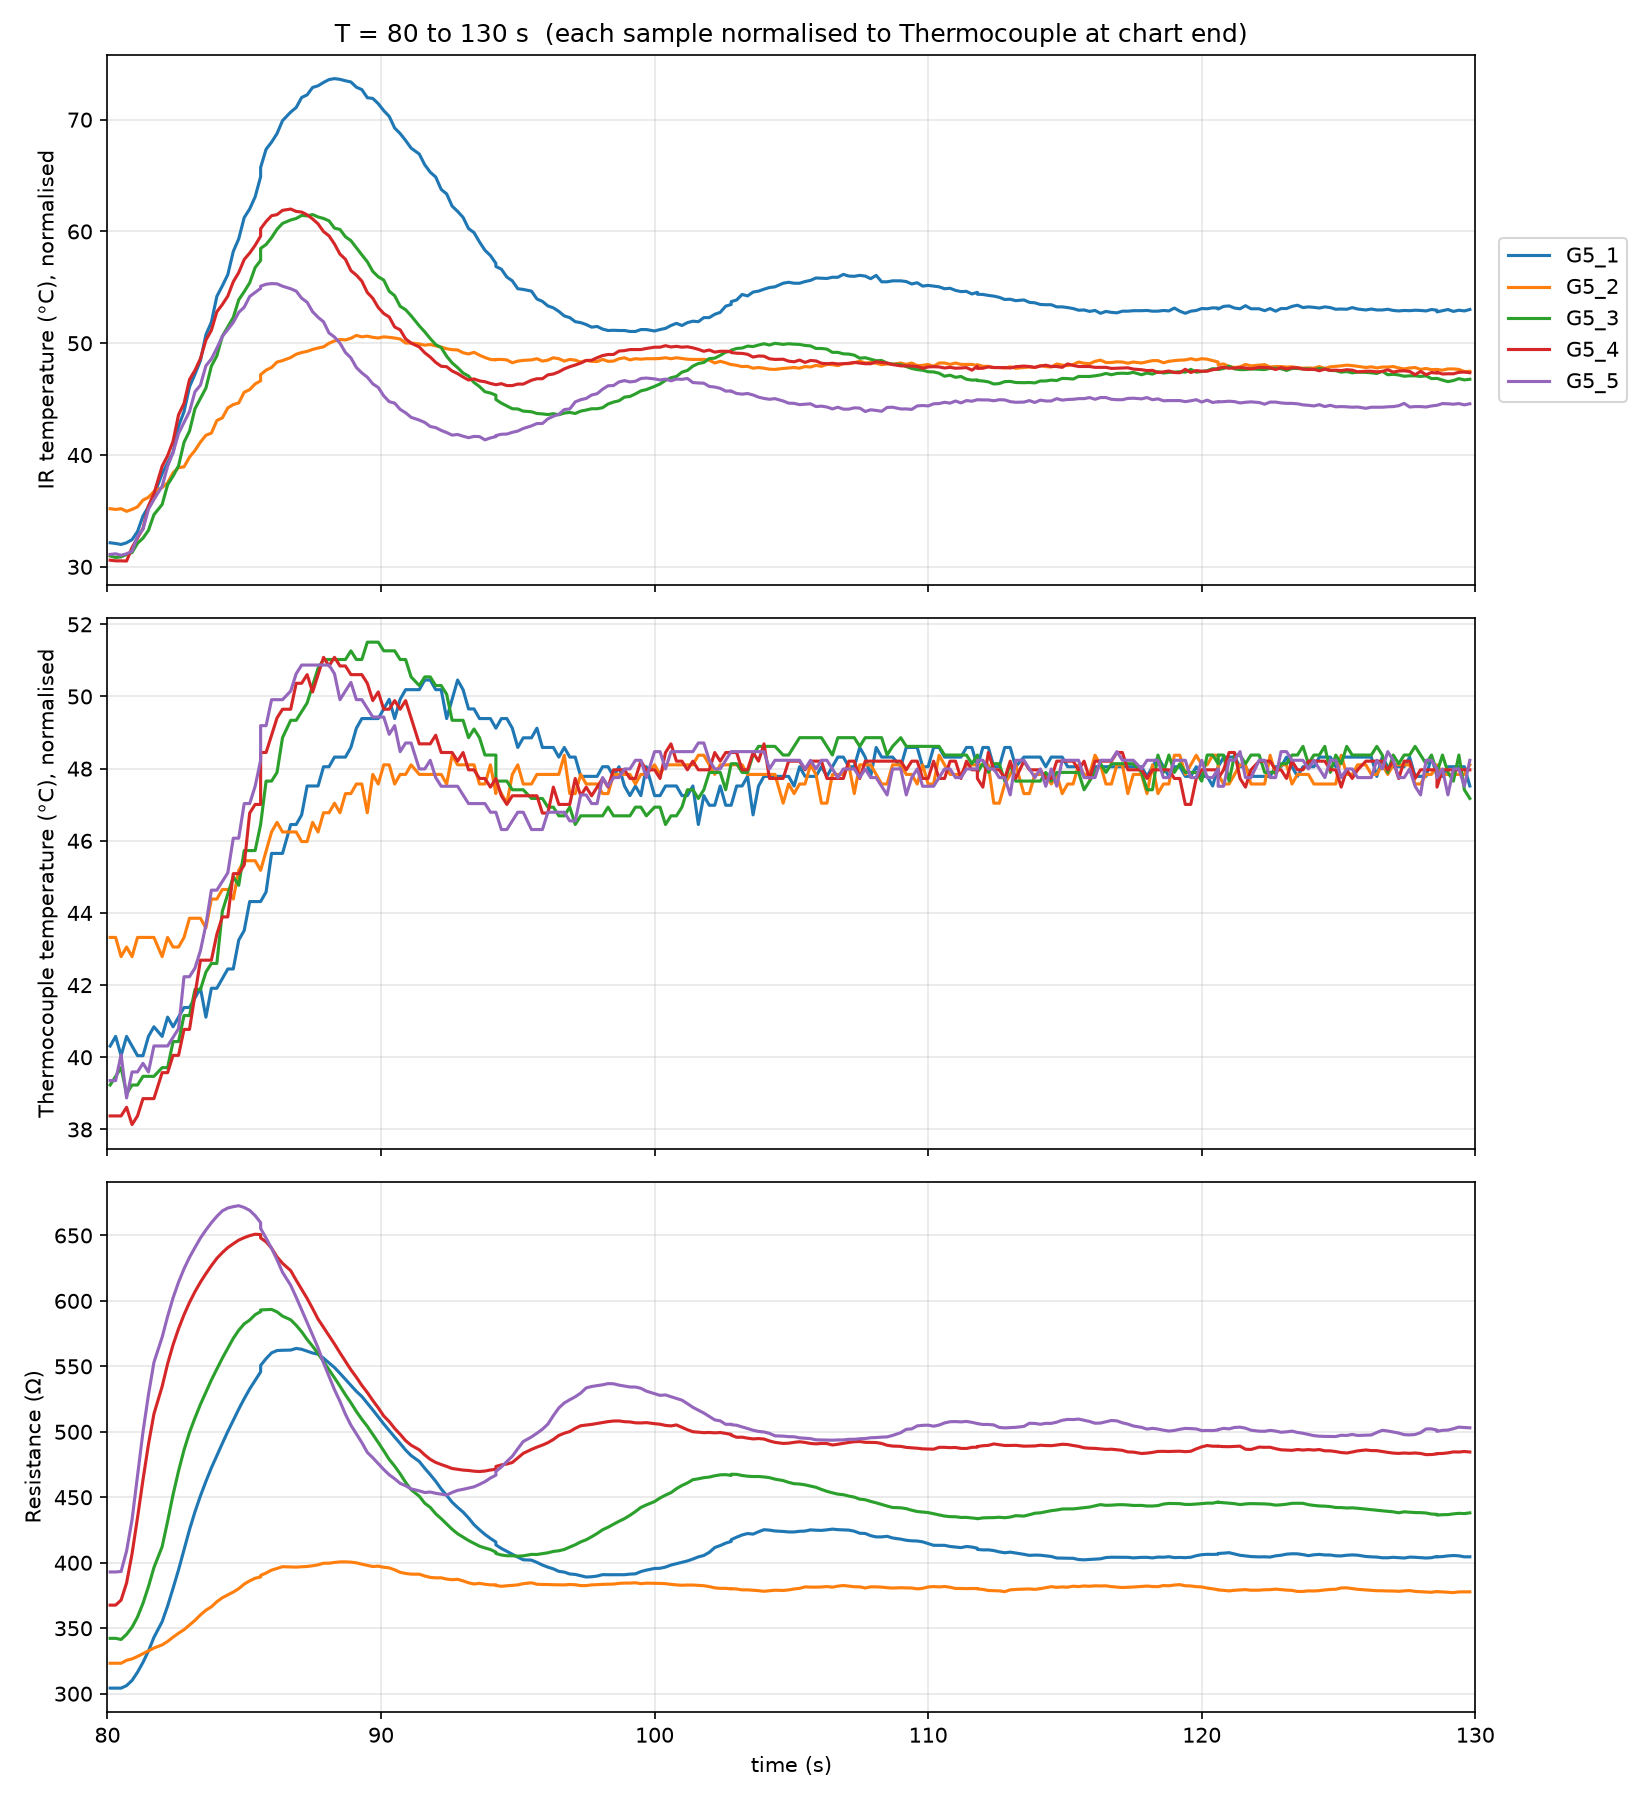
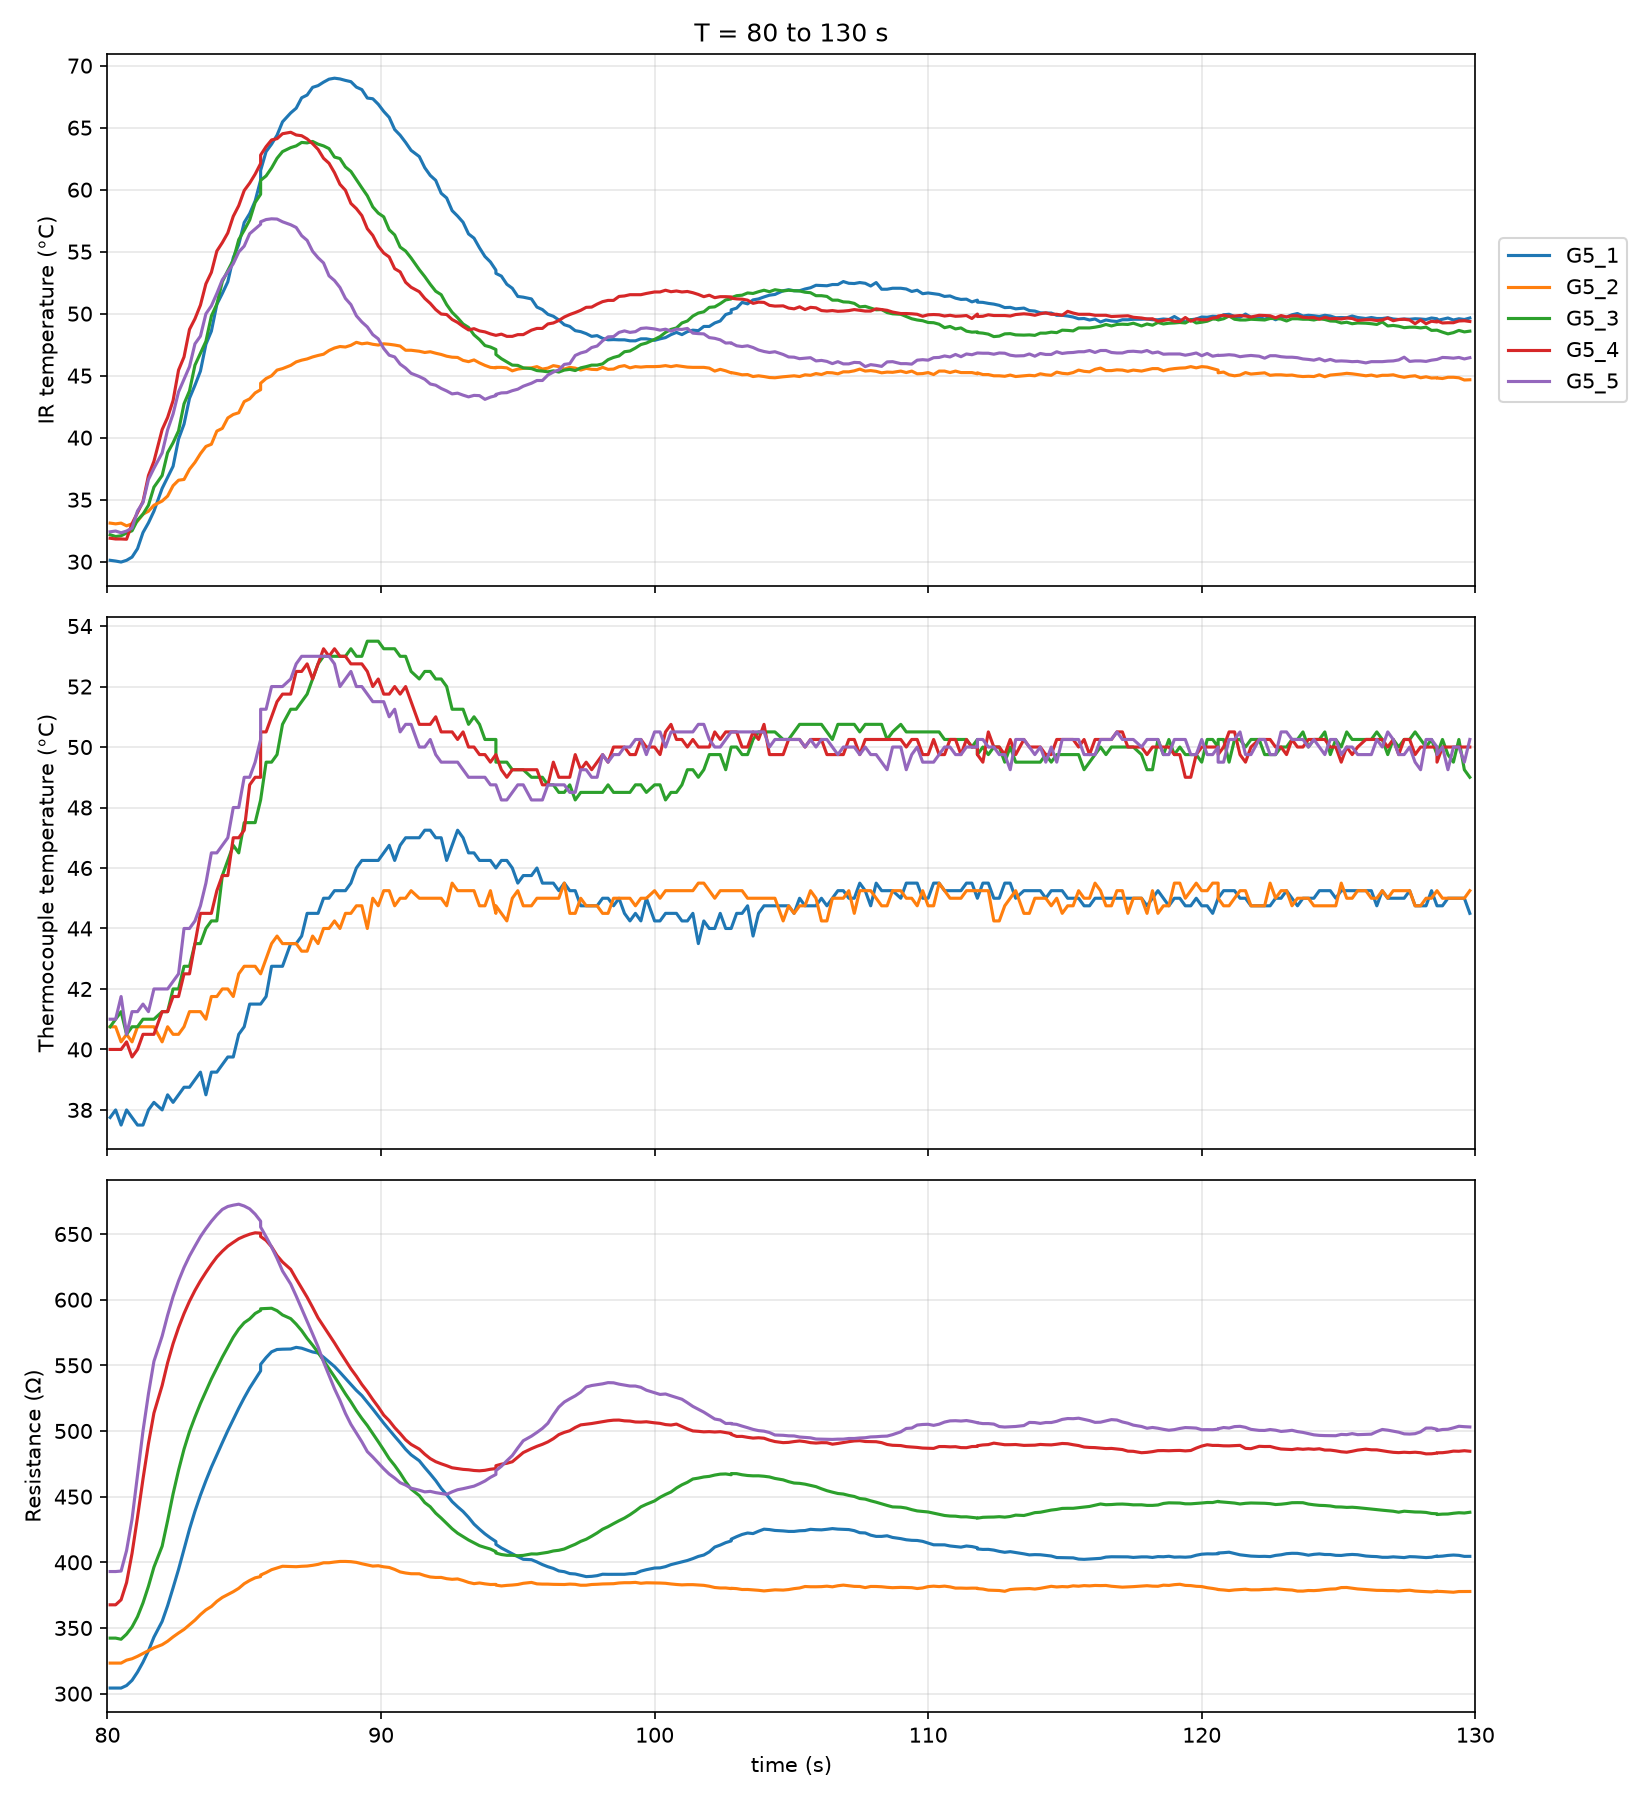
Report charts: remove normalisation, plot raw data

diff --git a/IR+T_Couple+reist 16 Oct/plot_report.py b/IR+T_Couple+reist 16 Oct/plot_report.py
@@ -4,30 +4,18 @@ import matplotlib.pyplot as plt
 
 rows = list(openpyxl.load_workbook("00 Report 14 Oct - 20 Oct.xlsx")["Sheet1"].iter_rows(min_row=3, values_only=True))
 rows = [r for r in rows if isinstance(r[0], (int, float))]
-t = [r[0] for r in rows]
-col = lambda g, k: [r[1 + 3 * g + k] for r in rows]  # k: 0 IR, 1 TC, 2 R
-
-# (lo, hi, reference signal k, file)
-CHARTS = [(0, 50, 0, "report_chart_1.png"), (80, 130, 1, "report_chart_2.png"), (150, 200, 2, "report_chart_3.png")]
-END = 2.0  # s at chart end averaged for normalisation
 LABELS = ["IR temperature (°C)", "Thermocouple temperature (°C)", "Resistance (Ω)"]
 
-for lo, hi, ref, fname in CHARTS:
-    idx = [i for i, v in enumerate(t) if lo <= v <= hi]
-    x = [t[i] for i in idx]
-    data = [[[col(g, k)[i] for i in idx] for k in range(3)] for g in range(5)]
-    ends = [sum(d[ref][-int(END / 0.2):]) / int(END / 0.2) for d in data]
-    target = sum(ends) / len(ends)
-
+for n, (lo, hi) in enumerate([(0, 50), (80, 130), (150, 200)], 1):
+    win = [r for r in rows if lo <= r[0] <= hi]
     fig, axes = plt.subplots(3, 1, figsize=(11, 12), sharex=True)
     for k, ax in enumerate(axes):
-        for g, (d, e) in enumerate(zip(data, ends)):
-            f = target / e if (k != 2 or ref == 2) else 1  # R is only scaled when it is the reference
-            ax.plot(x, [v * f for v in d[k]], color=f"C{g}", label=f"G5_{g+1}")
-        ax.set(xlim=(lo, hi), ylabel=LABELS[k] + (", normalised" if k != 2 or ref == 2 else ""))
+        for g in range(5):
+            ax.plot([r[0] for r in win], [r[1 + 3 * g + k] for r in win], color=f"C{g}", label=f"G5_{g+1}")
+        ax.set(xlim=(lo, hi), ylabel=LABELS[k])
         ax.grid(alpha=.3)
-    axes[0].set_title(f"T = {lo} to {hi} s  (each sample normalised to {LABELS[ref].split()[0]} at chart end)")
+    axes[0].set_title(f"T = {lo} to {hi} s")
     axes[-1].set_xlabel("time (s)")
     axes[0].legend(loc="center left", bbox_to_anchor=(1.01, .5))
     fig.tight_layout()
-    fig.savefig(fname, dpi=150)
+    fig.savefig(f"report_chart_{n}.png", dpi=150)
